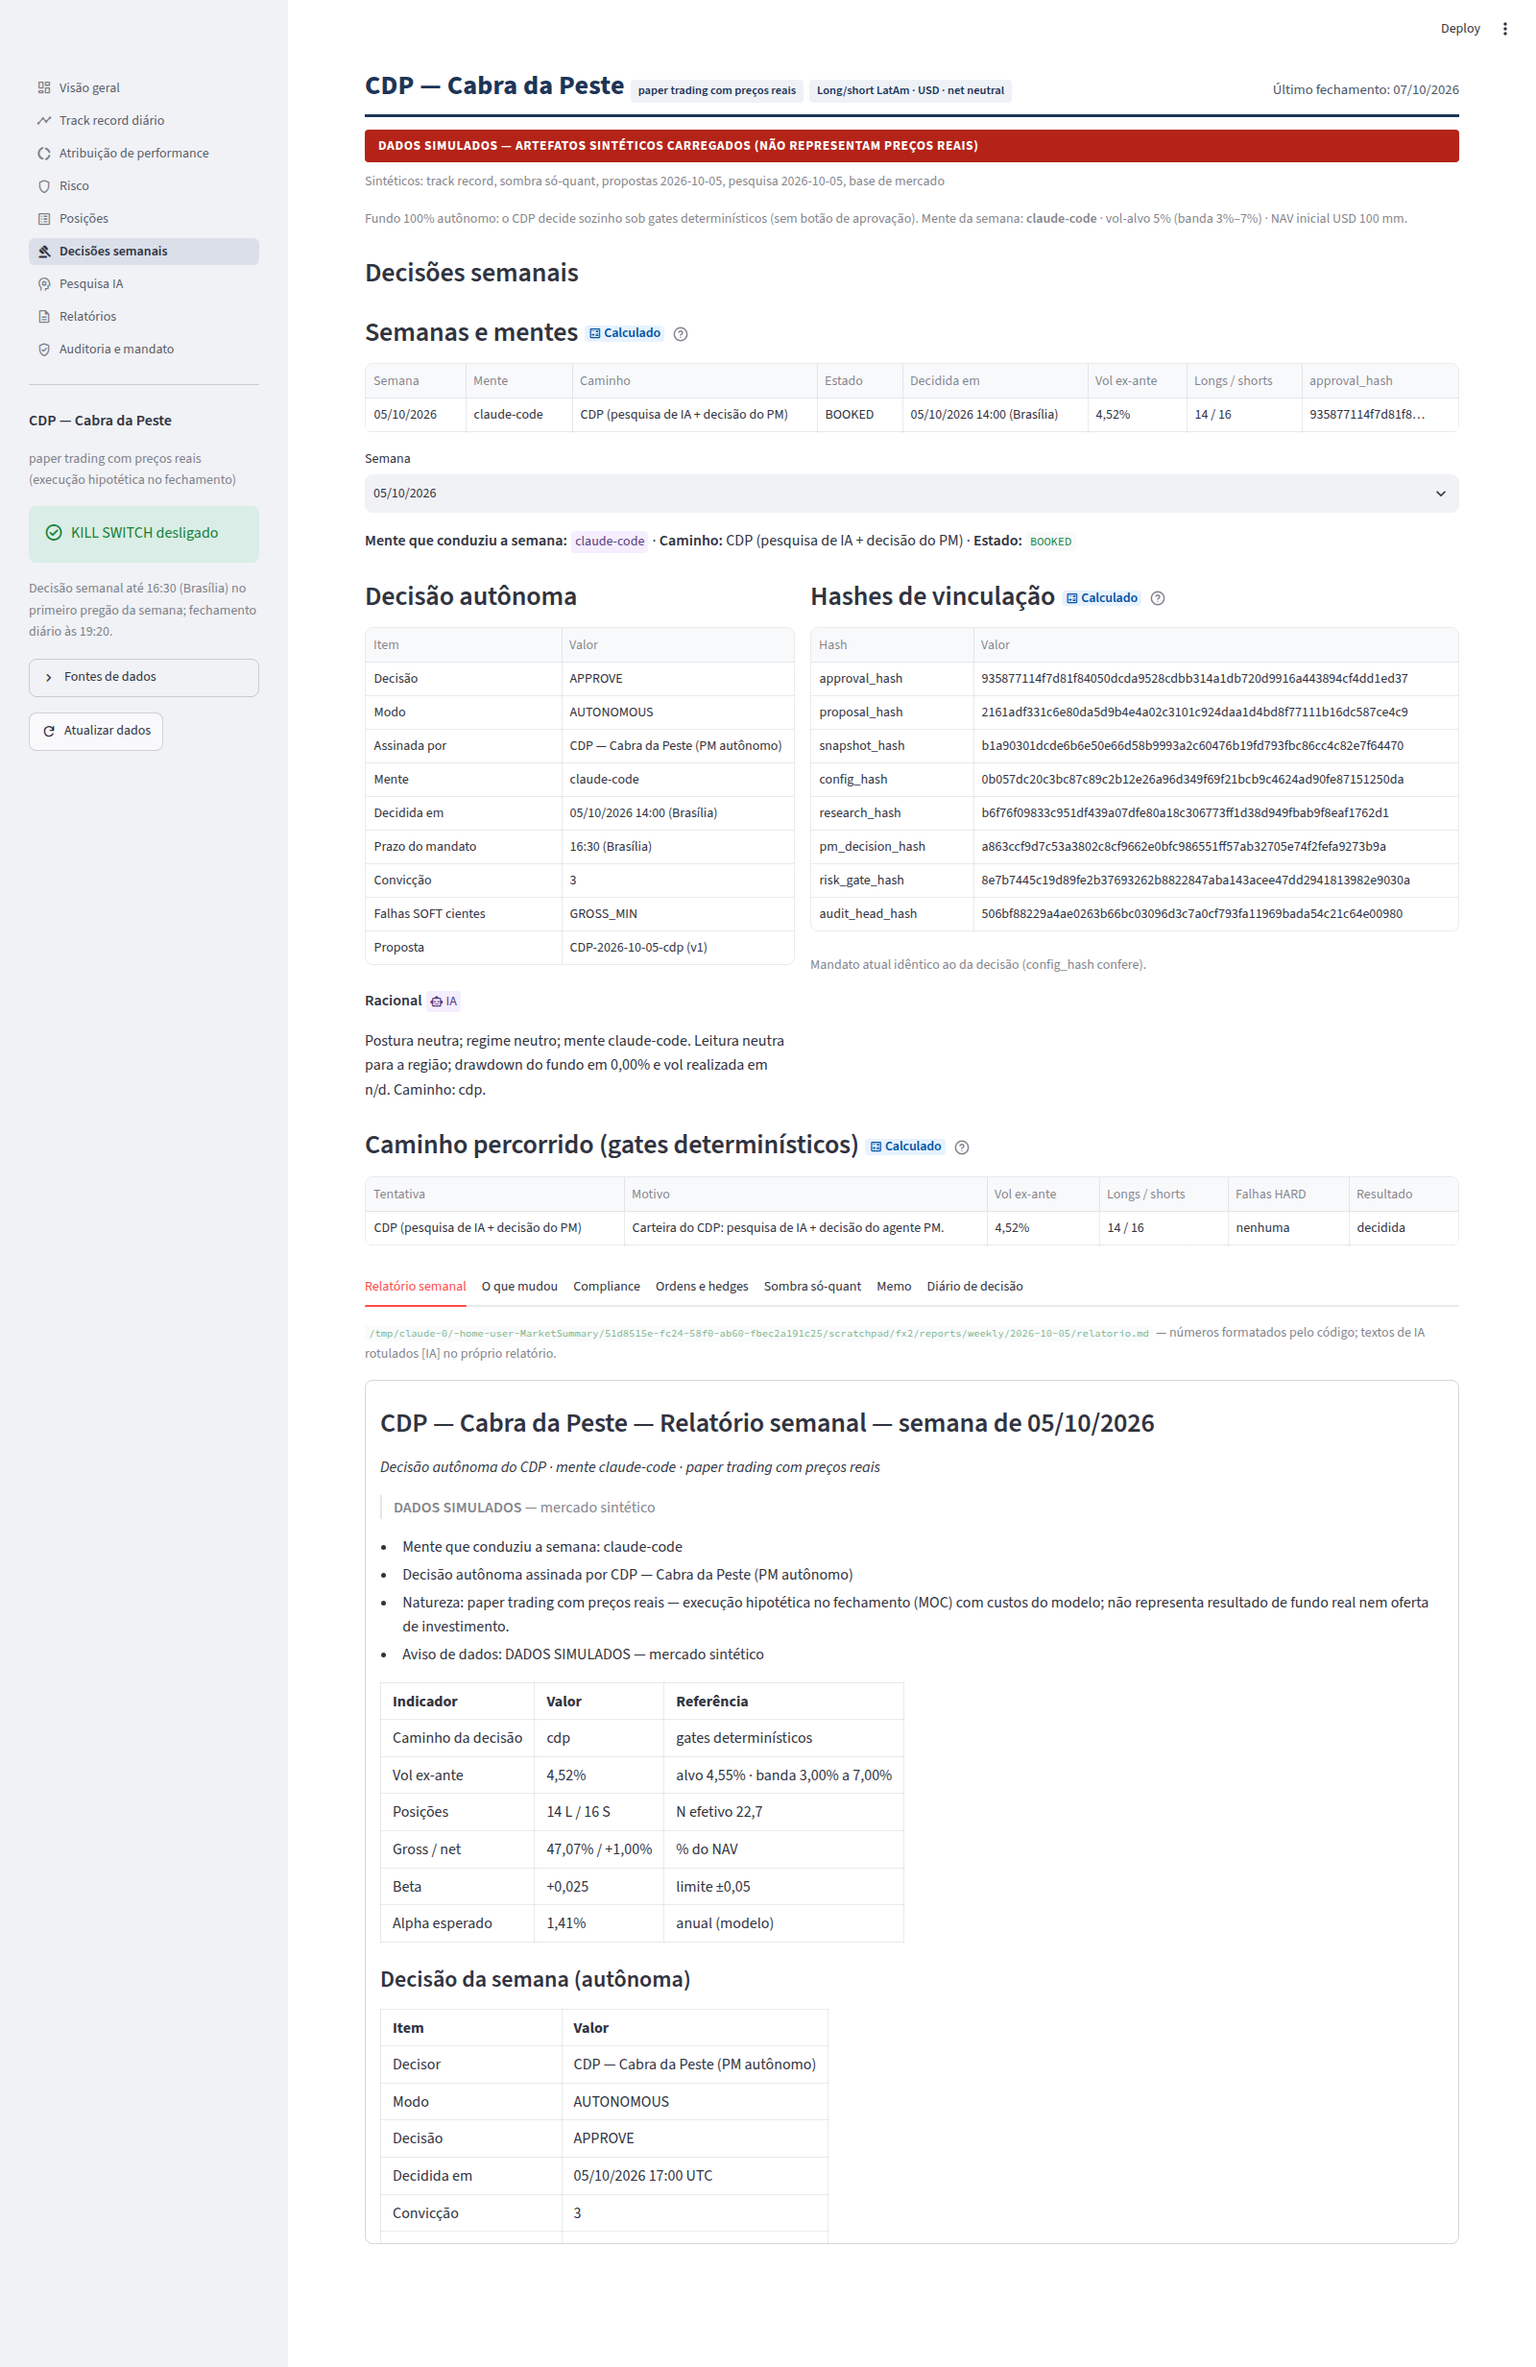
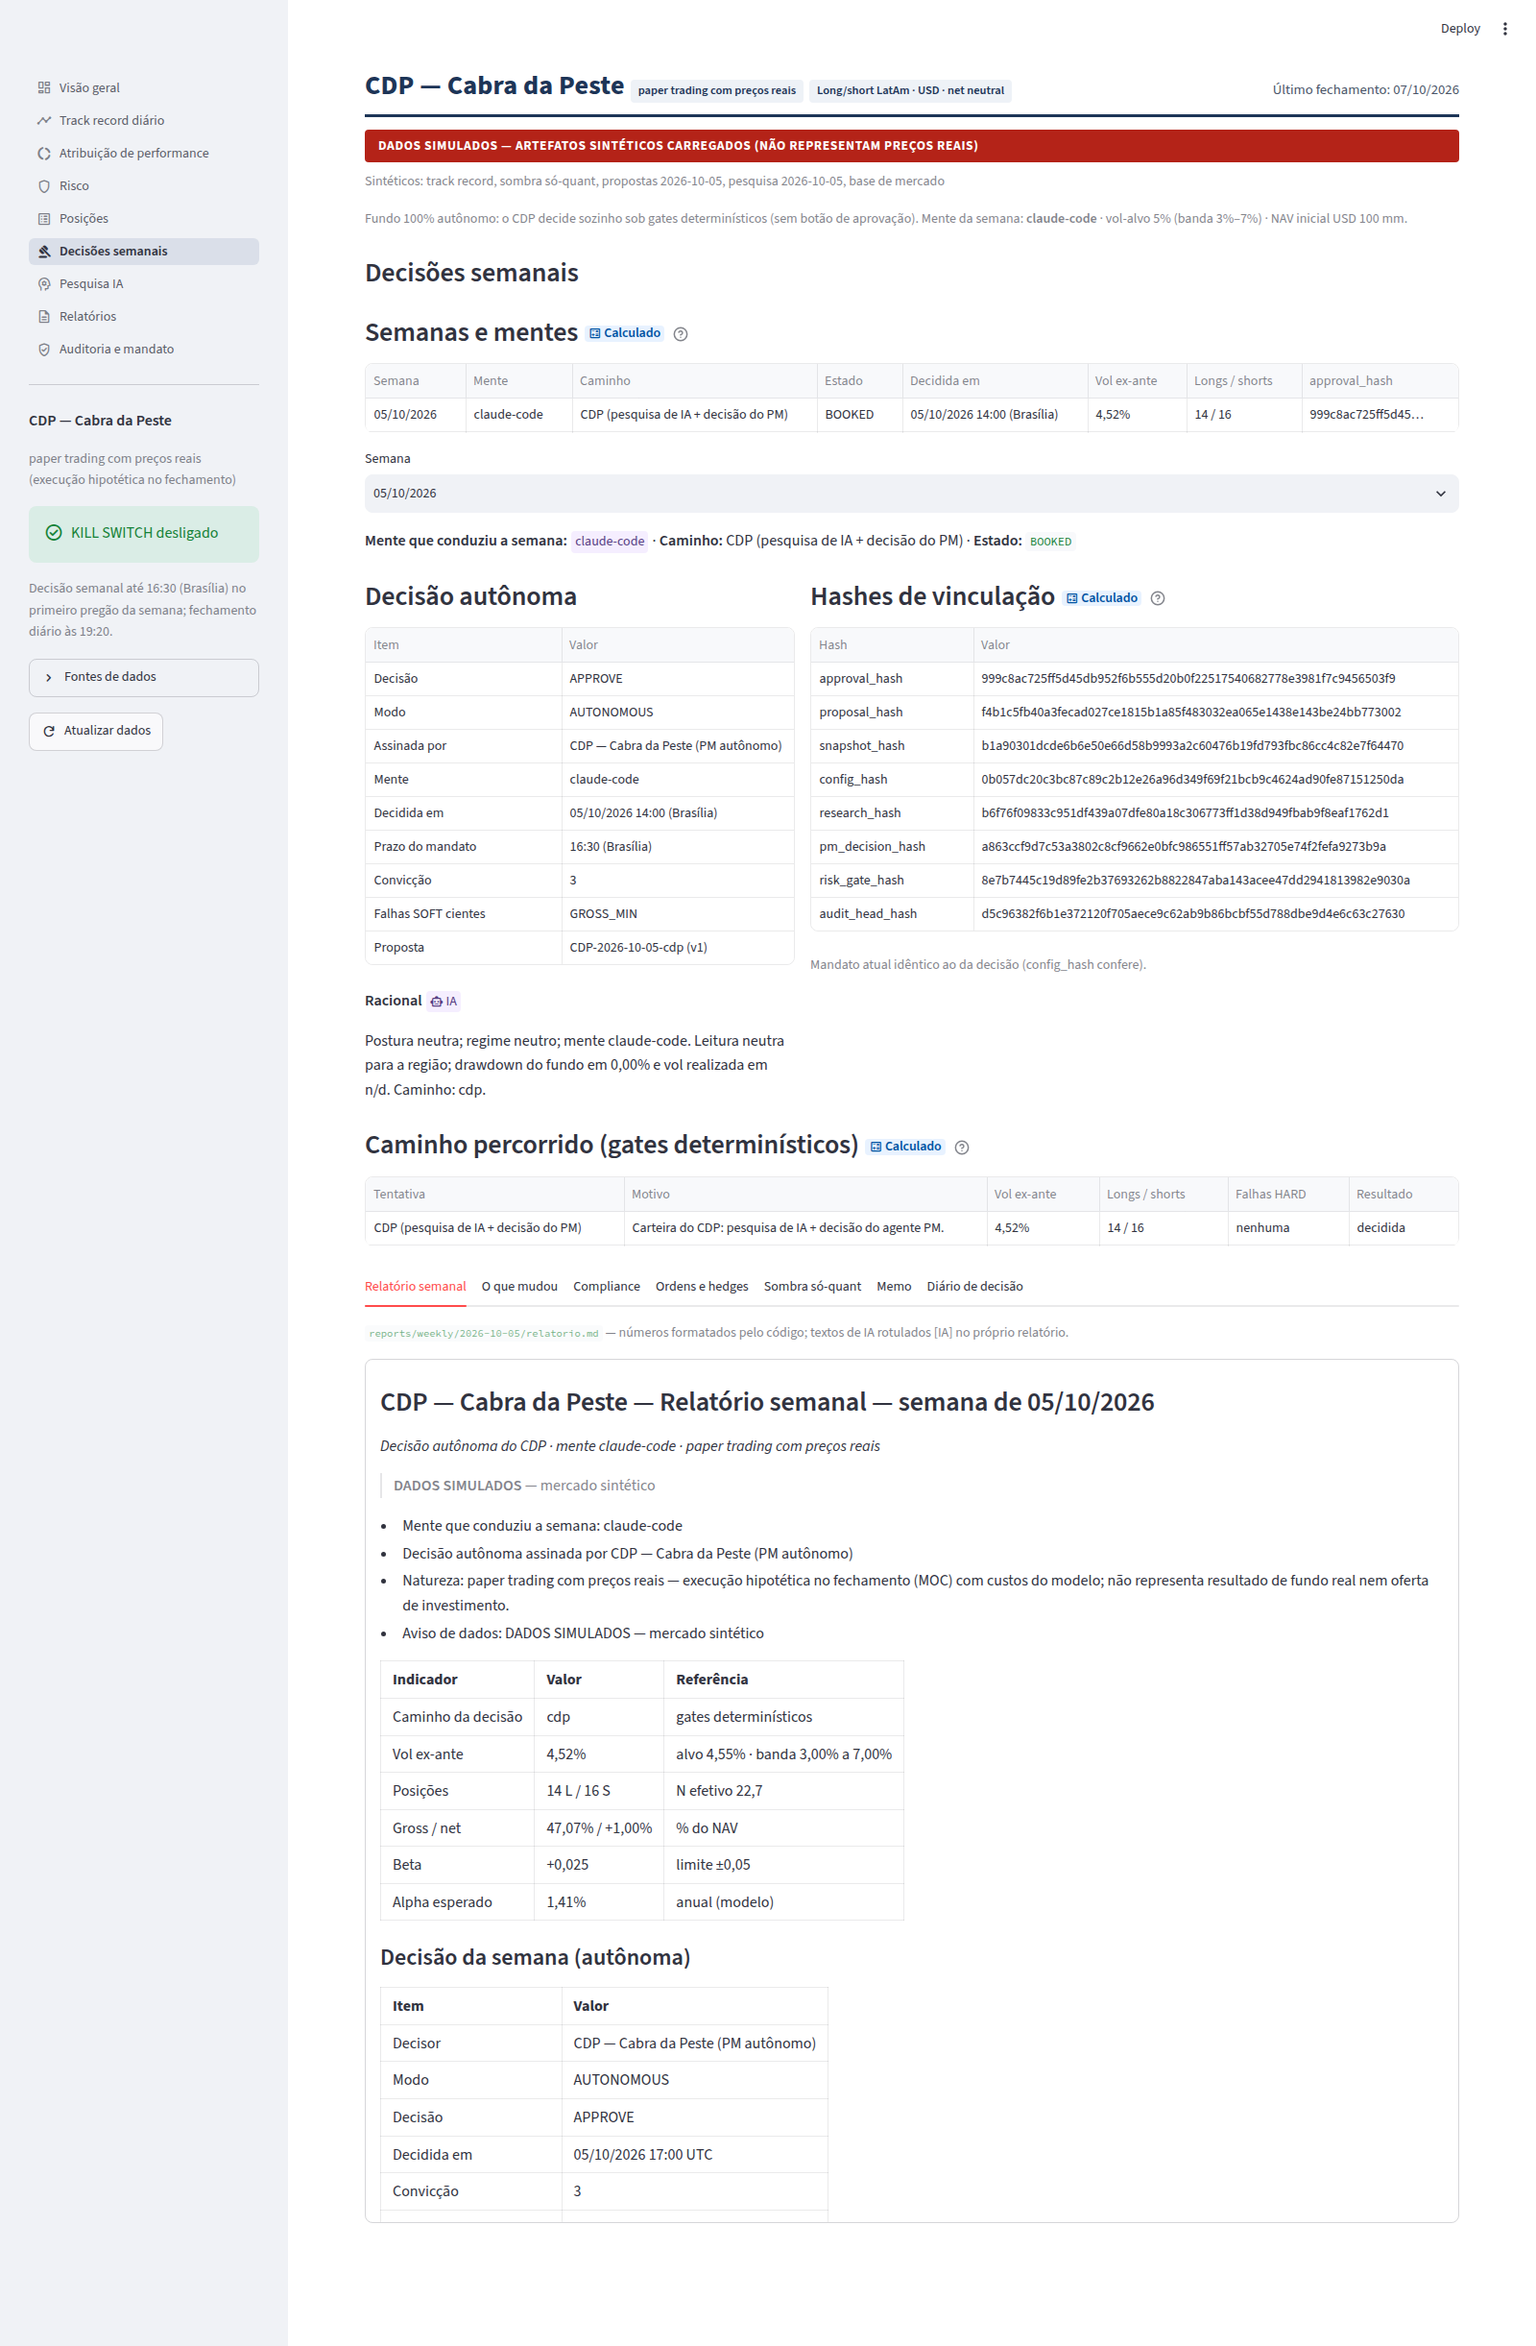
feat(cdp): incrementos de mercado ancorados na trilha; dados não prontos ⇒ nova tentativa
Claude-Session: https://claude.ai/code/session_01Wqky8AogCdnKZRQ2WstCbb

diff --git a/src/latam_ls/workflow/runtime.py b/src/latam_ls/workflow/runtime.py
@@ -158,7 +158,7 @@ class Runtime:
         manifest_path = briefing_dir / PREPARE_MANIFEST
         if record:
             if live:
-                store.catch_up(prev)
+                self._anchor_increments(store.catch_up(prev))
             md = store.load(as_of=prev)
             info: dict = {"week": week, "previous_session": prev,
                           "store_content_hash": md.manifest.content_hash(), "live": live,
@@ -454,6 +454,14 @@ class Runtime:
         mkt = build_market_day_facts(md.benchmarks, md.fx, session)
         return build_daily_factbook(record, history, mkt, cfg=self.cfg), history
 
+    def _anchor_increments(self, increments) -> None:
+        """Ancora cada incremento diário de dados na trilha (detecta truncamento da cauda)."""
+        for inc in increments or []:
+            self.book.audit.append(
+                "MARKET_INCREMENT", "CDP — rotina diária",
+                {"session_date": inc.session_date, "manifest_hash": inc.manifest_hash},
+                summary=f"Incremento de mercado de {inc.session_date} gravado.")
+
     def daily_dir(self, session: date) -> Path:
         return self.reports_root / "daily" / session.isoformat()
 
@@ -470,7 +478,14 @@ class Runtime:
             return {"data": session, "status": "sem pregão"}
         store = self.store
         if live:
-            store.catch_up(session)
+            from ..data.store import DataNotReadyError, StoreLockedError
+
+            try:
+                increments = store.catch_up(session)
+            except (DataNotReadyError, StoreLockedError) as exc:
+                return {"data": session, "status": "dados não prontos",
+                        "motivo": str(exc), "acao": "tente de novo em alguns minutos"}
+            self._anchor_increments(increments)
         runner = self._runner(store)
         try:
             res = runner.run_session(session)
